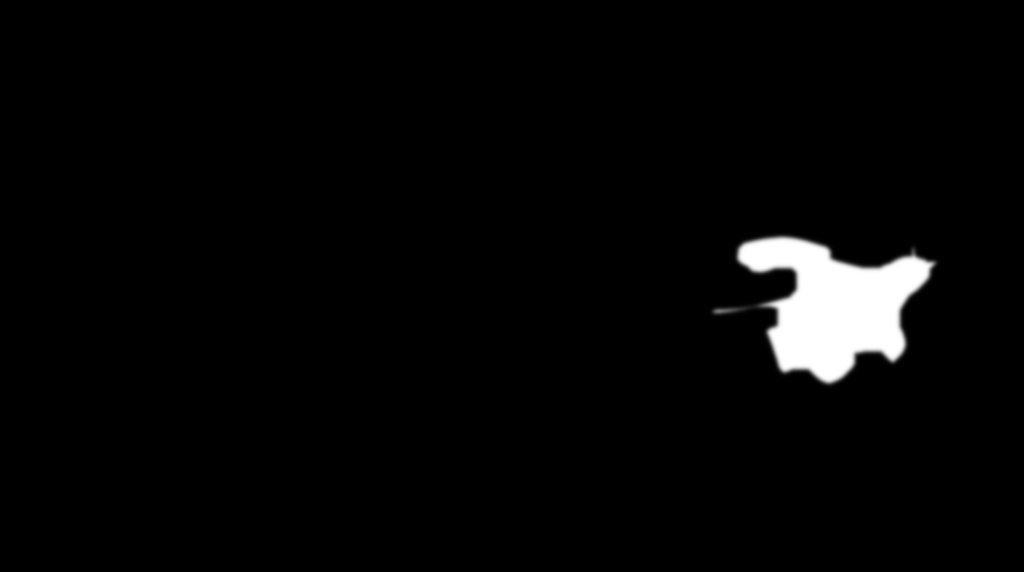
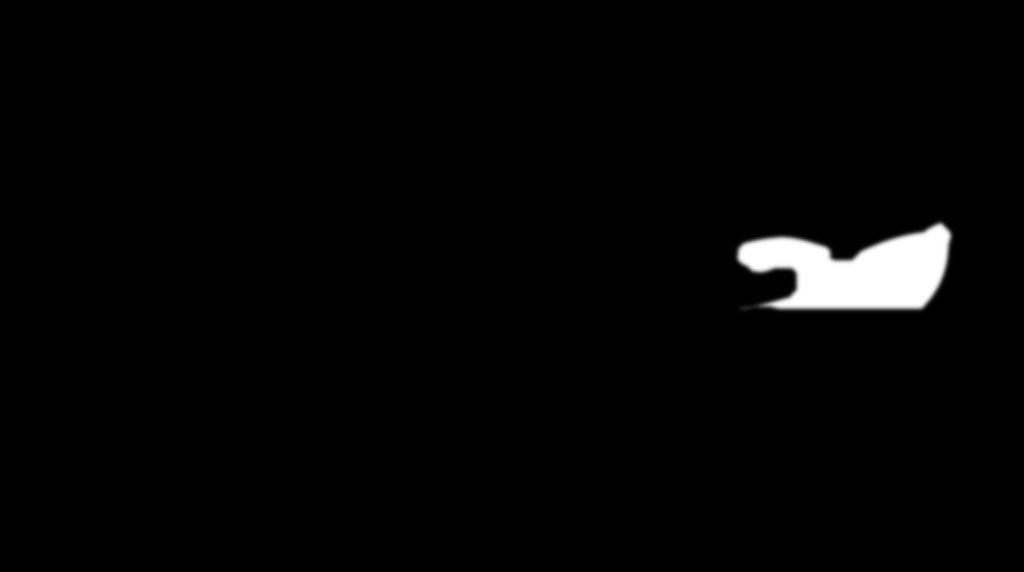
Bake: cream neck, head cleaned below the ruff; mouth sprites stop at the ruff

Changed region(s): [[0.75, 0.3864, 0.9375, 0.6836], [0.6875, 0.535, 0.7188, 0.5647]]

diff --git a/tools/bake_rig.py b/tools/bake_rig.py
@@ -229,6 +229,17 @@ yy = np.mgrid[0:h4, 0:w4][0]
 # Below the ruff (headB 1x px, original frame); the restyled head's neck also has a cream stripe.
 cream_neck = (hsv[:, :, 2] > 170) & (hsv[:, :, 1] < 110) if RESTYLED_HEAD else np.zeros_like(orange)
 stub = (orange | cream_neck) & (yy > (268 - SHIFT[1]) * 4)
+if RESTYLED_HEAD:
+    # Only the orange fur of the neck goes (the cream ruff stays whole); the cream neck piece shows instead.
+    # Below the ruff line keep only the cream ruff spikes that hang from above it (and their ink edge);
+    # the neck's orange fur and stray lines go, the cream neck piece shows instead.
+    below = yy > (262 - SHIFT[1]) * 4
+    creamy = (hsv[:, :, 2] > 165) & (hsv[:, :, 1] < 110) & (hb[:, :, 3] > 128)
+    lab_c, _ = ndi.label(creamy)
+    line = int((262 - SHIFT[1]) * 4)
+    top_ids = np.unique(lab_c[max(0, line - 6):line + 1][lab_c[max(0, line - 6):line + 1] > 0])
+    ruff = ndi.binary_dilation(np.isin(lab_c, top_ids), iterations=10)
+    stub = below & ~ruff
 stub = ndi.binary_opening(stub, iterations=3)
 keep = 1 - cv2.GaussianBlur(ndi.binary_dilation(stub, iterations=2).astype(np.float32), (0, 0), 2)
 hb[:, :, 3] = (hb[:, :, 3] * keep).astype(np.uint8)
@@ -422,7 +433,17 @@ save('torso', img, o)
 
 neck, o1 = cut('torso', 740, 260)
 nh, nw = neck.shape[0] / 4, neck.shape[1] / 4
-N_ref = sim(0.30, 0, (o1[0] + nw / 2, o1[1] + nh * 0.12), (533.0, 160.0))
+NECK_S = 0.30
+if RESTYLED_HEAD:
+    # Master look: cream fur from under the ruff into the collar (no orange band), a little wider so it
+    # fills the collar's opening.
+    hsvn = cv2.cvtColor(neck[:, :, :3], cv2.COLOR_BGR2HSV).astype(np.float32)
+    org = (hsvn[..., 0] <= 30) & (hsvn[..., 1] > 40) & (hsvn[..., 2] > 60)  # all the fur, light or shaded
+    cream = np.array([196, 228, 244], np.float32)  # BGR of the new ruff
+    shade = np.clip(hsvn[..., 2:3] / 235.0, 0.55, 1.05)
+    neck[:, :, :3] = np.where(org[..., None], np.clip(cream * shade, 0, 255), neck[:, :, :3]).astype(np.uint8)
+    NECK_S = 0.36
+N_ref = sim(NECK_S, 0, (o1[0] + nw / 2, o1[1] + nh * 0.12), (533.0, 160.0))
 img, o = warp(neck, at4(to_rig(N_ref), o1))
 save('neck', img, o)
 

diff --git a/tools/comfy/rig_mouths.py b/tools/comfy/rig_mouths.py
@@ -118,6 +118,15 @@ def main():
     # The bake keeps the ORIGINAL head frame: offsets are expressed in it (+ shift of the crop origin).
     o_old = crop_origin(cv2.imread(os.path.join(ROOT, 'art', 'parts', 'head.jpg')), (790, 200))
     shift = (hb_o[0] - o_old[0], hb_o[1] - o_old[1])
+    # Nothing below the ruff: bake_rig.py removes the head's neck there (the cream neck piece shows),
+    # so a mouth sprite must not bring the render's orange neck back.
+    ry_lim = int((262 + o_old[1] - cy0) / sy_h)
+    mask[ry_lim:] = False
+    feather = cv2.GaussianBlur(mask.astype(np.float32), (0, 0), 6)
+    fade = np.clip((ry_lim - np.arange(mask.shape[0])) / 40.0, 0, 1)[:, None]  # soft lower edge, no seam
+    feather = feather * fade
+    ys, xs = np.nonzero(mask)
+    rb = (int(xs.min()), int(ys.min()), int(xs.max()) + 1, int(ys.max()) + 1)
 
     # Sprites on a fresh mouth sheet, in a 4x3 grid with room between them; the bake reads the points from fits.json.
     old = cv2.imread(os.path.join(ROOT, 'art', 'parts', 'mouths.jpg'))
